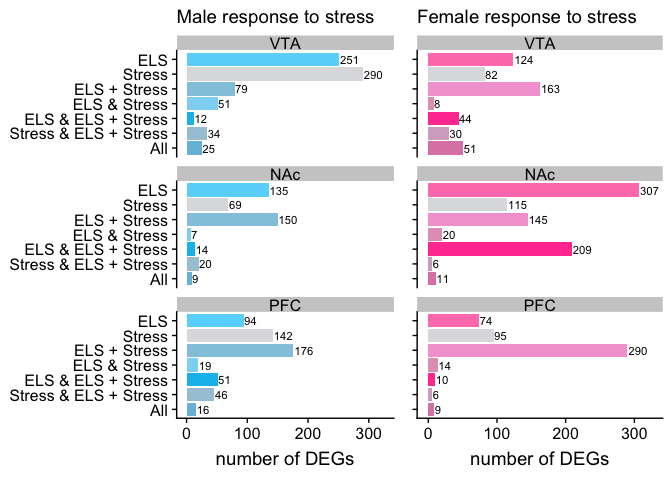
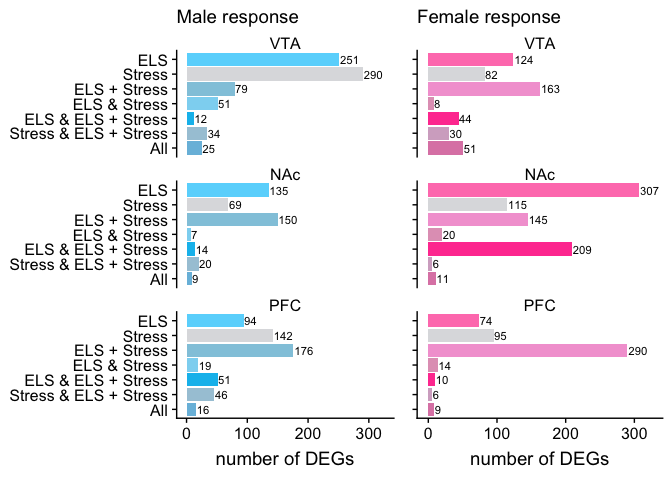
remove grey background

diff --git a/fig1venn.md b/fig1venn.md
@@ -83,8 +83,9 @@
       geom_text(aes(label=number),size=3, hjust = -0.05) +
       guides(fill = guide_legend(reverse = TRUE)) +
       theme(legend.title = element_blank(),
-            legend.position = "none") +
-      labs(subtitle = "Male response to stress",
+            legend.position = "none",
+            strip.background = element_rect( fill="white")) +
+      labs(subtitle = "Male response",
            x = NULL, y = "number of DEGs") 
 
 
@@ -105,8 +106,9 @@
       guides(fill = guide_legend(reverse = TRUE)) +
       theme(legend.title = element_blank(),
             legend.position = "none",
-            axis.text.y=element_blank()) +
-      labs(subtitle = "Female response to stress",
+            axis.text.y=element_blank(),
+            strip.background = element_rect( fill="white")) +
+      labs(subtitle = "Female response",
            x = NULL, y = "number of DEGs") 
 
 
